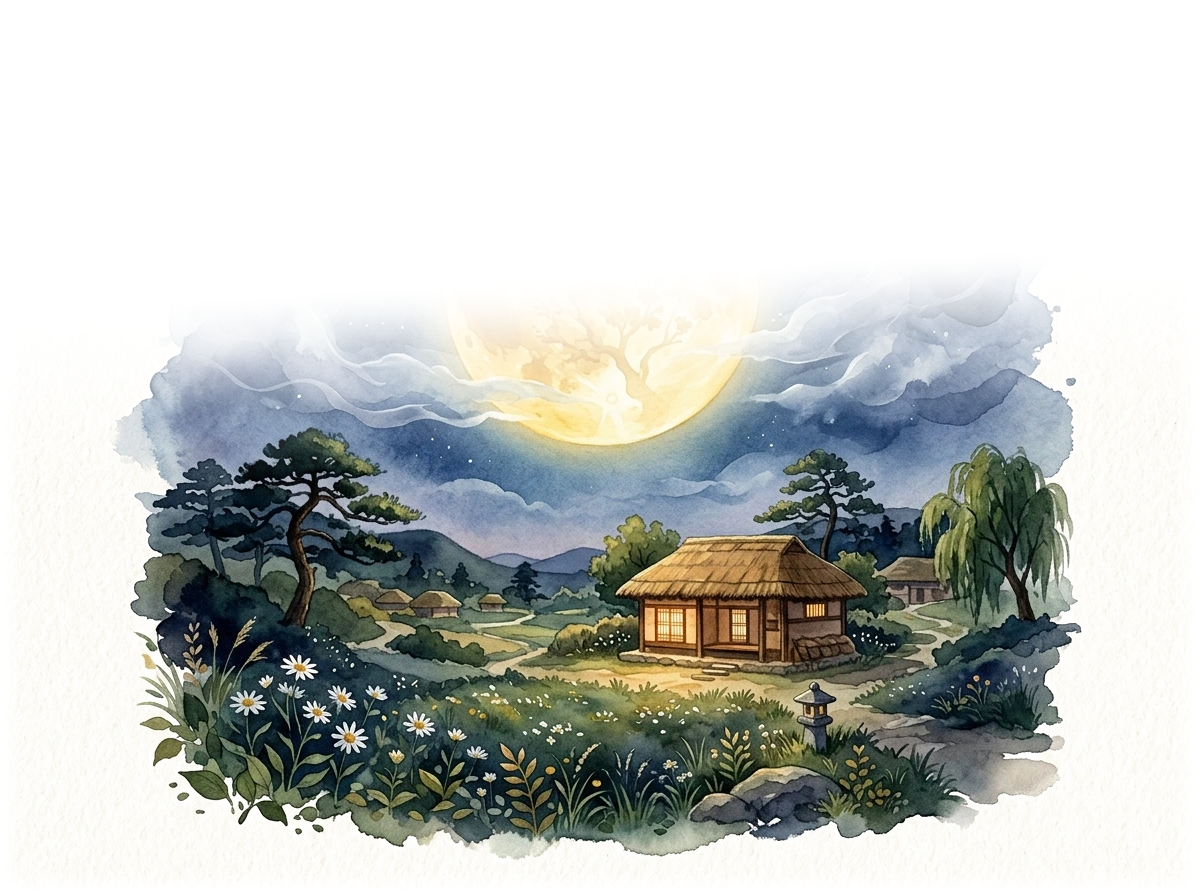
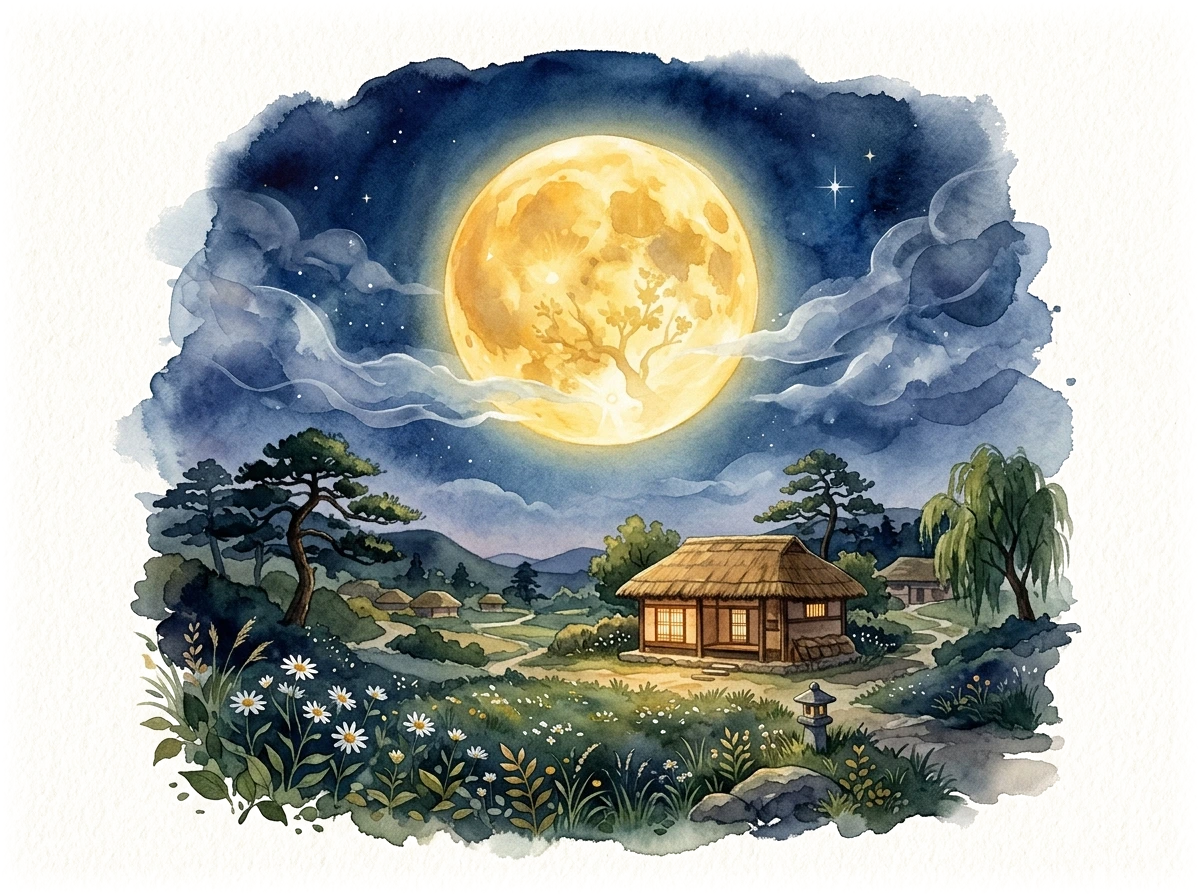
시화 레이아웃 전면 수정: 왼쪽 페이지 본문 글씨 가림 원천 차단 및 우측 하단(corner-right) 배치 적용

Changed region(s): [[0.0925, 0.0312, 0.8942, 0.5]]

diff --git a/learning/literacy-numeracy/poetry/styles.css b/learning/literacy-numeracy/poetry/styles.css
@@ -878,22 +878,22 @@ a {
     pointer-events: none;
 }
 
-/* 본문이 긴 시(사미인곡 등): 왼쪽 페이지 0% 배제, 오른쪽 하단 구석에만 배치 */
+/* 시화 우측 하단 배치: 왼쪽 페이지 본문 글씨 100% 보호 및 우측 하단 여백에 자연스럽게 안착 */
 .read-spread-art.mode-corner-right {
     justify-content: flex-end;
     align-items: flex-end;
 }
 
 .read-spread-art.mode-corner-right .read-spread-art-img {
-    width: 44%;
-    height: 44%;
+    width: clamp(260px, 42%, 480px);
+    max-height: 48%;
     object-fit: contain;
     object-position: bottom right;
     mix-blend-mode: multiply;
-    opacity: 0.88;
+    opacity: 0.9;
     pointer-events: none;
-    margin-right: clamp(16px, 3.5vw, 40px);
-    margin-bottom: clamp(14px, 3vh, 32px);
+    margin-right: clamp(14px, 3.2vw, 36px);
+    margin-bottom: clamp(12px, 2.5vh, 28px);
 }
 
 .page-quiz-col {
@@ -1132,6 +1132,13 @@ a {
     .story-page-left {
         border-right: none;
         border-bottom: 1px solid rgba(92, 58, 34, 0.22);
+    }
+
+    .read-spread-art.mode-corner-right .read-spread-art-img {
+        width: clamp(160px, 45%, 260px);
+        max-height: 38%;
+        margin-right: 12px;
+        margin-bottom: 10px;
     }
 
     .nav-prev { left: 4px; }

diff --git a/learning/literacy-numeracy/poetry/index.html b/learning/literacy-numeracy/poetry/index.html
@@ -8,10 +8,10 @@
     <link rel="preconnect" href="https://fonts.googleapis.com">
     <link rel="preconnect" href="https://fonts.gstatic.com" crossorigin>
     <link href="https://fonts.googleapis.com/css2?family=Gowun+Batang:wght@400;700&family=Noto+Serif+KR:wght@400;500;600;700&family=Roboto+Slab:wght@400;500;700&display=swap" rel="stylesheet">
-    <link rel="stylesheet" href="styles.css?v=20260910-book5complete">
-    <script src="poems-index.js?v=20260910-book5complete" defer></script>
-    <script src="lessons.js?v=20260910-book5complete" defer></script>
-    <script src="app.js?v=20260910-book5complete" defer></script>
+    <link rel="stylesheet" href="styles.css?v=20260910-cornerright2">
+    <script src="poems-index.js?v=20260910-cornerright2" defer></script>
+    <script src="lessons.js?v=20260910-cornerright2" defer></script>
+    <script src="app.js?v=20260910-cornerright2" defer></script>
 </head>
 <body>
     <div class="top-bar">

diff --git a/learning/literacy-numeracy/poetry/app.js b/learning/literacy-numeracy/poetry/app.js
@@ -303,11 +303,10 @@
 
         let artHtml = "";
         if (poem.illustration) {
-            const isLong = (poem.lines && poem.lines.length >= 14);
-            const mode = poem.illustrationMode || (isLong ? "corner-right" : "bottom");
+            const mode = poem.illustrationMode || "corner-right";
             artHtml = `
                 <div class="read-spread-art mode-${mode}" aria-hidden="true">
-                    <img class="read-spread-art-img" src="${escapeHtml(poem.illustration)}?v=20260910-smoothmist" alt="" />
+                    <img class="read-spread-art-img" src="${escapeHtml(poem.illustration)}?v=20260910-cornerright" alt="" />
                 </div>
             `;
         }

diff --git a/learning/literacy-numeracy/poetry/poems/folk-dara.js b/learning/literacy-numeracy/poetry/poems/folk-dara.js
@@ -5,6 +5,7 @@
     window.POETRY_PART["folk-dara"] = {
         "poem": {
             "illustration": "images/folk-dara.webp",
+            "illustrationMode": "corner-right",
             "lines": [
                 "달아 달아 밝은 달아",
                 "이태백이 놀던 달아",
